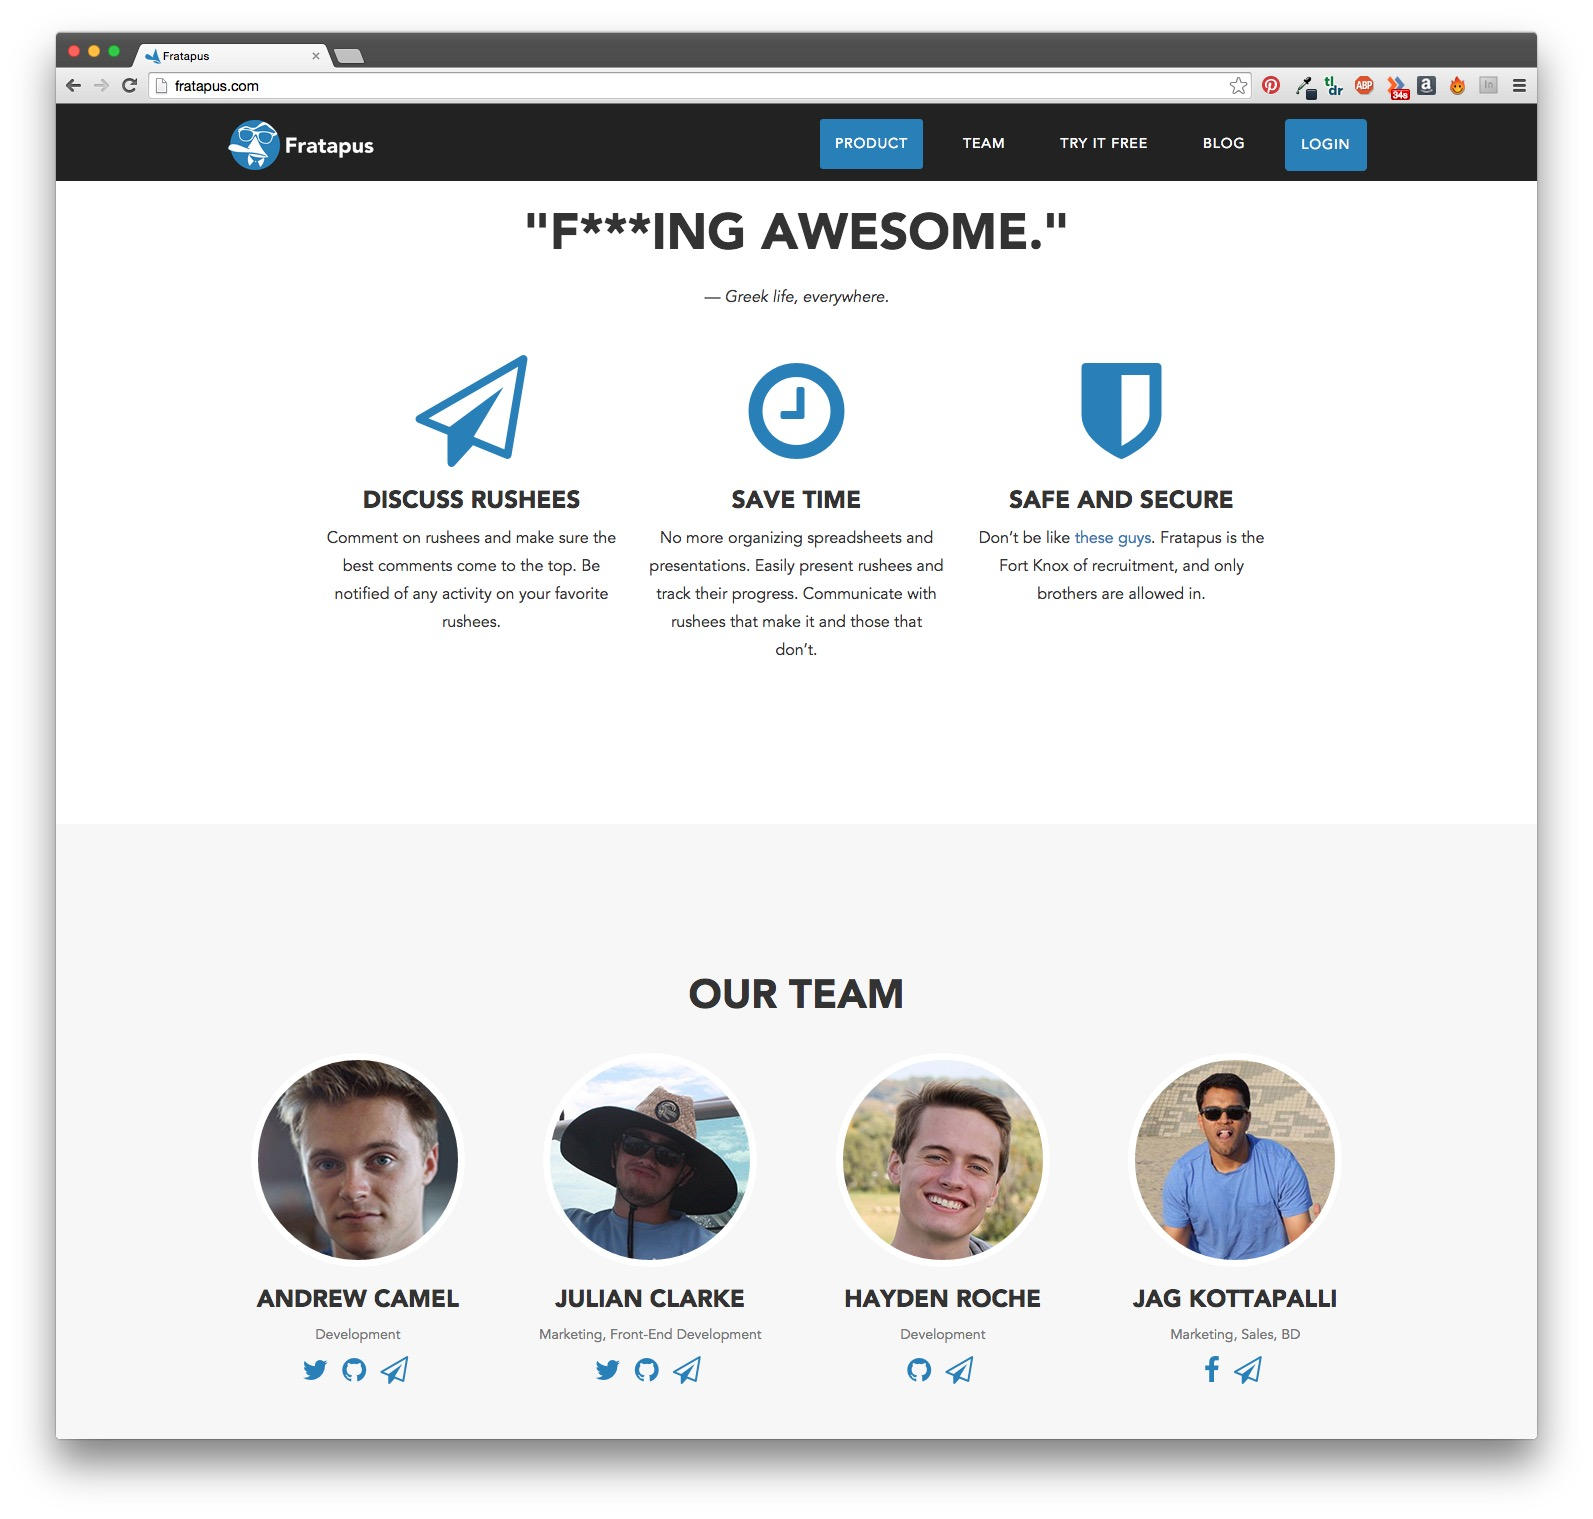
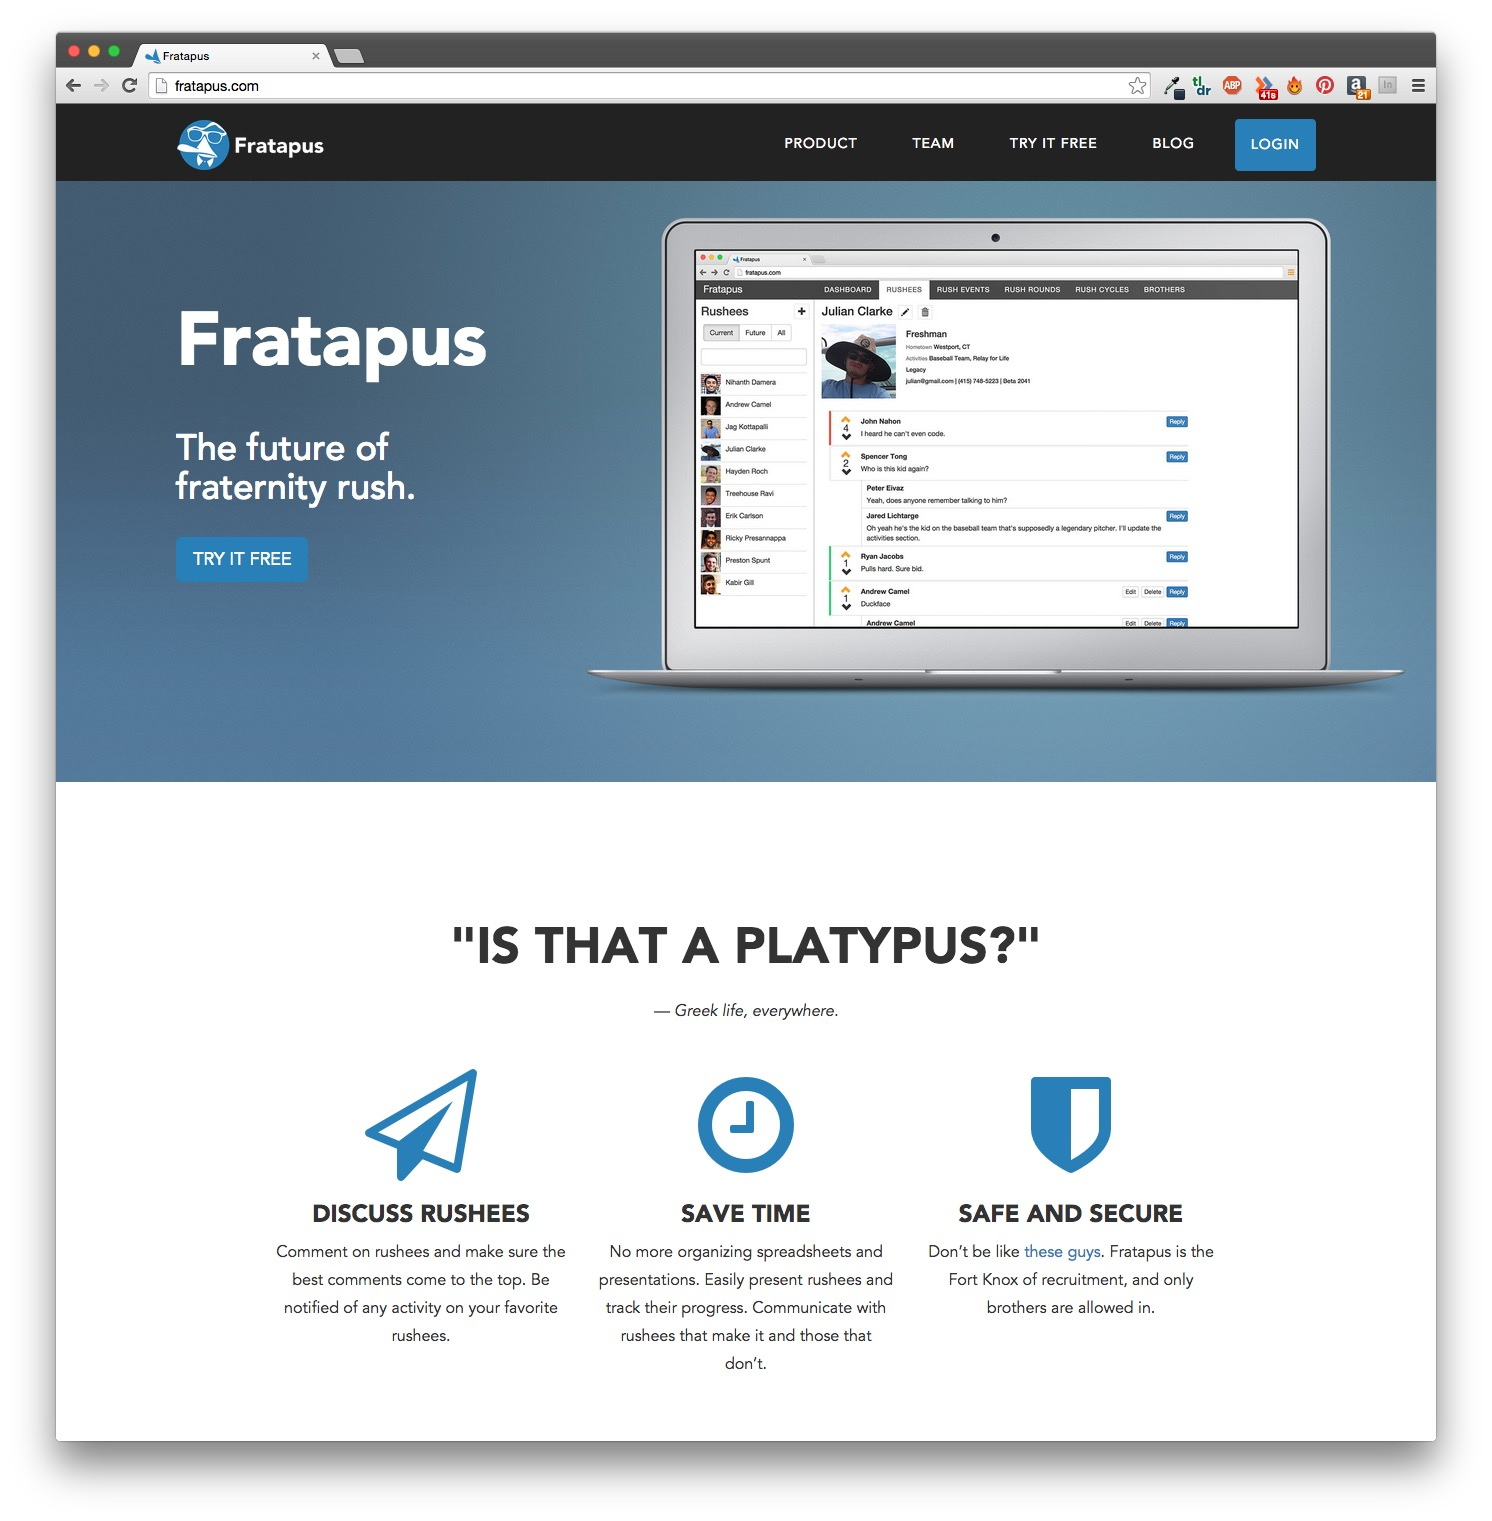
changed images

diff --git a/index.html b/index.html
@@ -164,7 +164,7 @@
                                 <i class="fa fa-plus fa-3x"></i>
                             </div>
                         </div>
-                        <img src="img/landing.jpg" class="img-responsive" alt="">
+                        <img src="img/fratapus2.jpg" class="img-responsive" alt="">
                     </a>
                     <div class="portfolio-caption">
                         <h4>Fratapus</h4>
